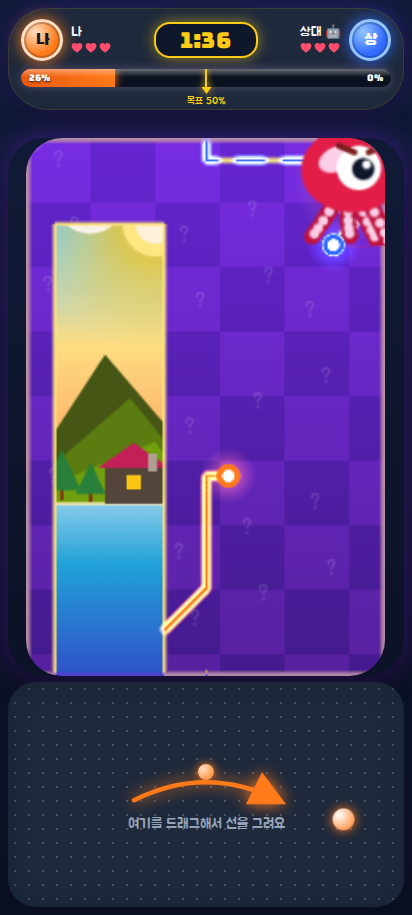
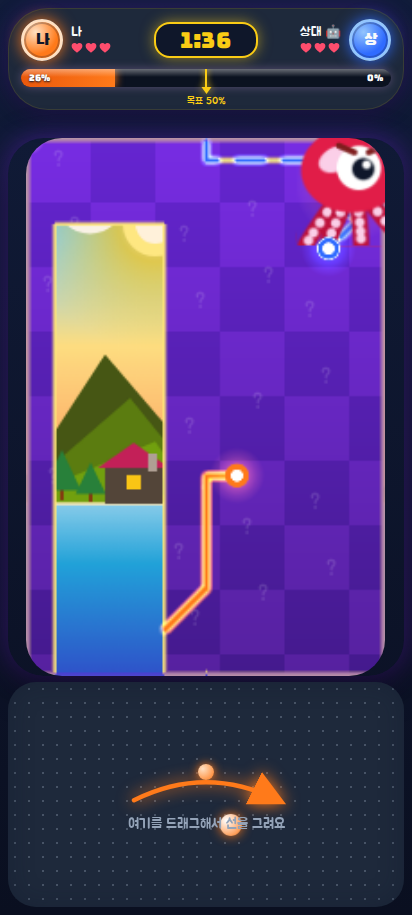
docs(qa): white-core trail vs mockup A at 390/360/412
On-screen: white 3/1/3, orange band 5/6/5, glow 14/12/12, ring 20/20/22.
Trail layering is white core inside orange, matching mockup A.

diff --git a/tests/e2e/cover-layout.spec.ts b/tests/e2e/cover-layout.spec.ts
@@ -62,7 +62,7 @@ async function measureRenderedTrail(page: Page): Promise<TrailMeasure> {
       const r = data[i];
       const g = data[i + 1];
       const b = data[i + 2];
-      return r >= 230 && g >= 230 && b >= 230;
+      return r >= 240 && g >= 240 && b >= 240;
     };
     const isBright = (i: number) => isSolid(i) || isWhiteCore(i);
     const isGlow = (i: number) => {
@@ -73,7 +73,7 @@ async function measureRenderedTrail(page: Page): Promise<TrailMeasure> {
     };
     let orbX = -1;
     let orbY = -1;
-    const whites: { x: number; y: number }[] = [];
+    const orbWhites: { x: number; y: number }[] = [];
     const y0 = Math.floor(height * 0.50);
     const y1 = Math.floor(height * 0.78);
     const x0 = Math.floor(width * 0.28);
@@ -84,16 +84,16 @@ async function measureRenderedTrail(page: Page): Promise<TrailMeasure> {
         let orange = 0;
         for (let a = 0; a < 8; a++) {
           const ang = (a / 8) * Math.PI * 2;
-          const xx = Math.round(x + Math.cos(ang) * 8);
-          const yy = Math.round(y + Math.sin(ang) * 8);
+          const xx = Math.round(x + Math.cos(ang) * 10);
+          const yy = Math.round(y + Math.sin(ang) * 10);
           if (xx >= 0 && yy >= 0 && xx < width && yy < height && isDisc(pix(xx, yy))) orange++;
         }
-        if (orange >= 2) whites.push({ x, y });
+        if (orange >= 4) orbWhites.push({ x, y });
       }
     }
-    if (whites.length) {
-      orbX = whites.reduce((s, p) => s + p.x, 0) / whites.length;
-      orbY = whites.reduce((s, p) => s + p.y, 0) / whites.length;
+    if (orbWhites.length) {
+      orbX = orbWhites.reduce((s, p) => s + p.x, 0) / orbWhites.length;
+      orbY = orbWhites.reduce((s, p) => s + p.y, 0) / orbWhites.length;
     }
     let ring = 0;
     if (orbX >= 0) {
@@ -108,13 +108,13 @@ async function measureRenderedTrail(page: Page): Promise<TrailMeasure> {
           const y = Math.round(orbY + uy * t);
           if (x < 0 || y < 0 || x >= width || y >= height) break;
           const p = pix(x, y);
-          if (isWhite(p) || isDiscCore(p)) rad = t;
+          if (isWhite(p) || isDiscCore(p) || isDisc(p)) rad = t;
           else if (rad > 0) break;
         }
-        if (rad >= 5) radii.push(rad);
+        if (rad >= 6) radii.push(rad);
       }
       radii.sort((a, b) => a - b);
-      const body = radii.filter((r) => r >= 7);
+      const body = radii.filter((r) => r >= 8);
       const use = body.length ? body : radii;
       if (use.length) ring = use[Math.floor(use.length * 0.5)] * 2;
     }
@@ -122,7 +122,7 @@ async function measureRenderedTrail(page: Page): Promise<TrailMeasure> {
     const collect = (major: number, minor: number, swap: boolean) => {
       const solids: number[] = [];
       const glows: number[] = [];
-      const whites: number[] = [];
+      const cores: number[] = [];
       for (let a = 0; a < major; a++) {
         let sRun = 0;
         let gRun = 0;
@@ -130,7 +130,7 @@ async function measureRenderedTrail(page: Page): Promise<TrailMeasure> {
         const push = () => {
           if (sRun >= 3 && sRun <= 8) solids.push(sRun);
           if (gRun >= 4 && gRun <= 22) glows.push(gRun);
-          if (wRun >= 1 && wRun <= 4) whites.push(wRun);
+          if (wRun >= 1 && wRun <= 4) cores.push(wRun);
           sRun = 0;
           gRun = 0;
           wRun = 0;
@@ -142,12 +142,12 @@ async function measureRenderedTrail(page: Page): Promise<TrailMeasure> {
             gRun++;
             if (isWhiteCore(i)) wRun++;
             else {
-              if (wRun >= 1 && wRun <= 4) whites.push(wRun);
+              if (wRun >= 1 && wRun <= 4) cores.push(wRun);
               wRun = 0;
             }
           } else if (isGlow(i)) {
             if (sRun >= 3 && sRun <= 8) solids.push(sRun);
-            if (wRun >= 1 && wRun <= 4) whites.push(wRun);
+            if (wRun >= 1 && wRun <= 4) cores.push(wRun);
             sRun = 0;
             wRun = 0;
             gRun++;
@@ -157,22 +157,22 @@ async function measureRenderedTrail(page: Page): Promise<TrailMeasure> {
         }
         push();
       }
-      return { solids, glows, whites };
+      return { solids, glows, cores };
     };
     const hz = collect(height, width, false);
     const vt = collect(width, height, true);
     const solids = hz.solids.concat(vt.solids);
     const glows = hz.glows.concat(vt.glows);
-    const whites = hz.whites.concat(vt.whites);
-    const pick = (arr: number[]) => {
+    const cores = hz.cores.concat(vt.cores);
+    const pick = (arr: number[], q = 0.7) => {
       if (!arr.length) return 0;
       const sorted = arr.slice().sort((a, b) => a - b);
-      return sorted[Math.floor(sorted.length * 0.7)];
+      return sorted[Math.min(sorted.length - 1, Math.floor(sorted.length * q))];
     };
     return {
       solidWidth: Math.round(pick(solids) * scale * 10) / 10,
       glowWidth: Math.round(pick(glows) * scale * 10) / 10,
-      whiteCore: Math.round(pick(whites) * scale * 10) / 10,
+      whiteCore: Math.round(pick(cores, 0.5) * scale * 10) / 10,
       ringPx: Math.round(ring * scale * 10) / 10,
       backing: { w: width, h: height },
       css: { w: width, h: height },
@@ -289,8 +289,8 @@ test.describe('Cover spike 390x844', () => {
     const measured = await measureRenderedTrail(page);
     console.log('rendered trail WIDTH (not radius) 390x844', measured);
     await page.screenshot({ path: path.join(SCREENSHOT_DIR, 'orb-mid-draw.png') });
-    expect(measured.whiteCore).toBeGreaterThanOrEqual(1.2);
-    expect(measured.whiteCore).toBeLessThanOrEqual(3.2);
+    expect(measured.whiteCore).toBeGreaterThanOrEqual(1);
+    expect(measured.whiteCore).toBeLessThanOrEqual(3.5);
     expect(measured.solidWidth).toBeGreaterThanOrEqual(3.5);
     expect(measured.solidWidth).toBeLessThanOrEqual(6.5);
     expect(measured.glowWidth).toBeGreaterThanOrEqual(9);

diff --git a/packages/client/src/main.ts b/packages/client/src/main.ts
@@ -1037,8 +1037,8 @@ class GameScene extends Phaser.Scene {
     }
     stamp(glowGfx, rad(12), glow, 0.14);
     stamp(glowGfx, rad(7), glow, 0.18);
-    stamp(this.trailGfx, rad(4.6), glow, 1);
-    stamp(this.trailGfx, rad(2), core, 1);
+    stamp(this.trailGfx, rad(4.2), glow, 1);
+    stamp(this.trailGfx, rad(1.8), core, 1);
   }
 
   private paintActors(
